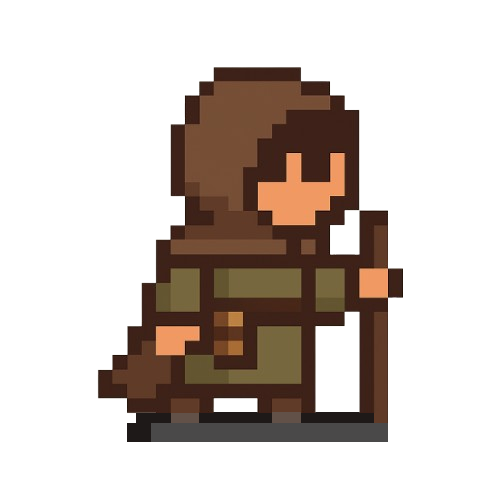
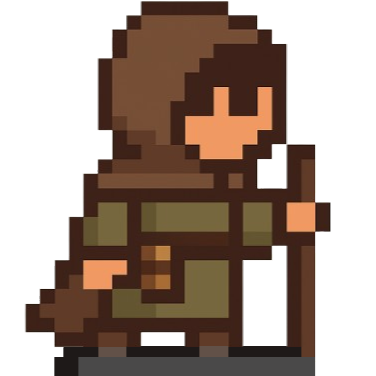
Improve character visibility and dimensions

diff --git a/styles/pawn.scss b/styles/pawn.scss
@@ -11,5 +11,7 @@
 .pawnImg {
 	width: 80px;
 	height: 80px;
+	filter: drop-shadow(0 0 10px rgba(255, 255, 255, 0.7));
+	margin-bottom: 20px;
 	overflow: visible;
 }
